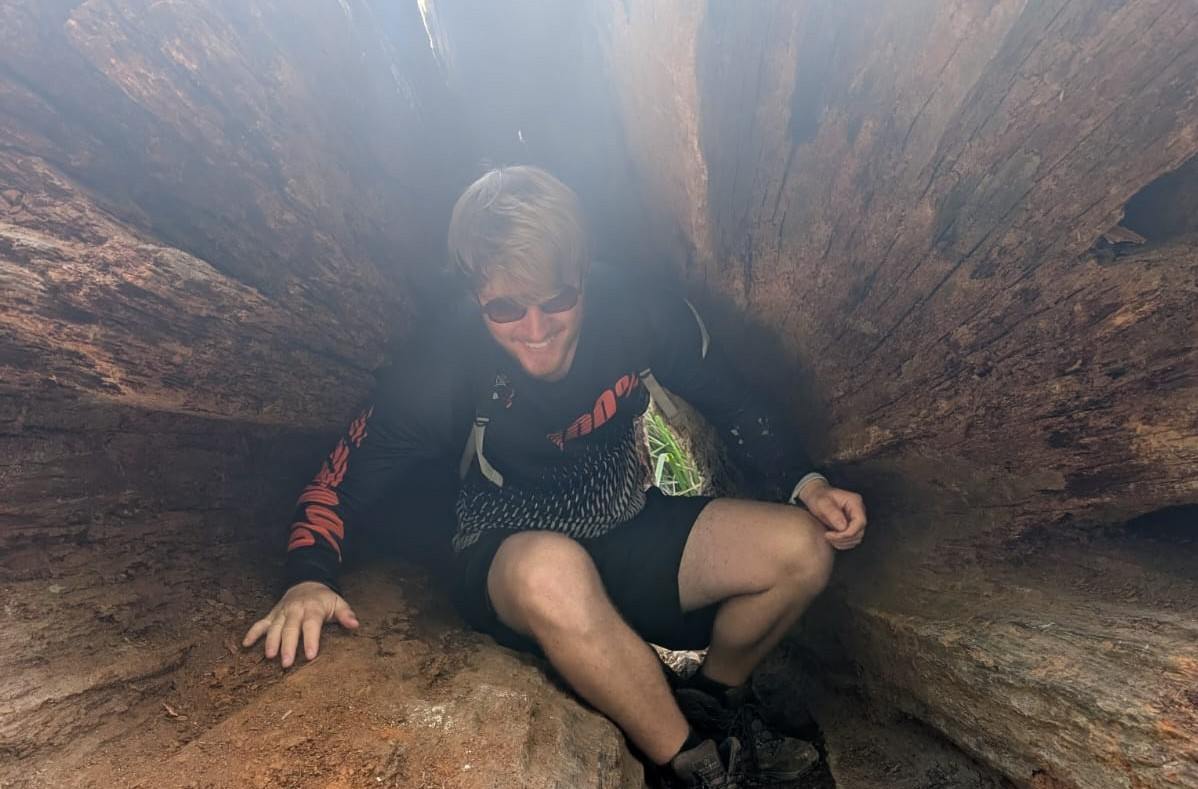
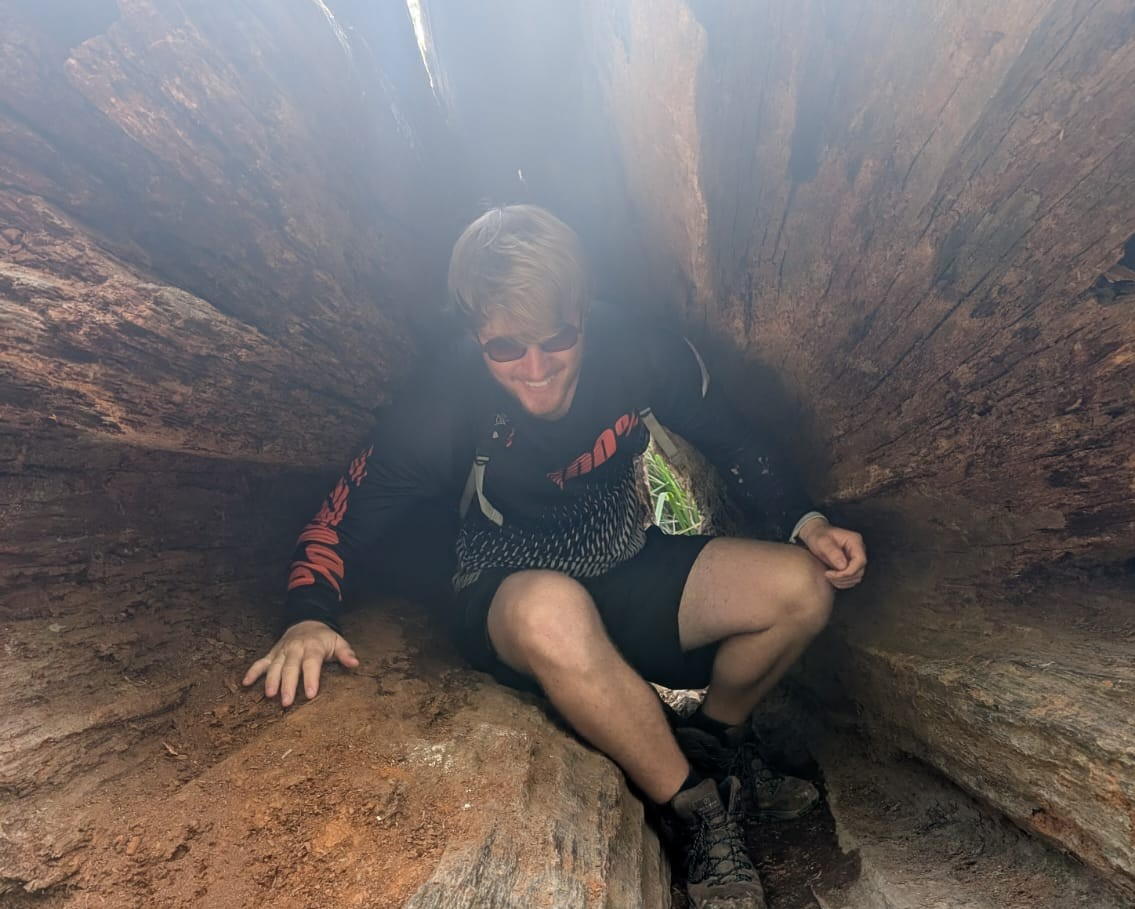
Updated animations

diff --git a/src/intro.jsx b/src/intro.jsx
@@ -18,72 +18,18 @@ function Intro(){
         gsap.fromTo(".intro-img", 
             {
                 scale: 1,
-                xPercent: -50,
-                yPercent: -50
             },
             {
                 scale: 0.85,
-                xPercent: -50,
-                yPercent: -50,
                 ease: "power1.inOut",
                 scrollTrigger: {
                     immediateRender: false,
                     trigger: locationsRef.current,
-                    start: "top-=150px bottom",
-                    end: "top-=150px 15%",
+                    start: "top bottom",
+                    end: "top 15%",
                     scrub: 0.5
                 }
         });
-
-        const tlNZ = gsap.timeline(
-        {
-            scrollTrigger: {
-                pinSpacing: false,
-                trigger: '.intro-img-wrapper',
-                start: "top top",
-                end: "bottom top",
-                scrub: 1.5,
-                ease: "power1.inOut",
-                pin: true,
-                onLeave: () => toggleTextVisible(tv => !tv),
-                onEnterBack: () => toggleTextVisible(tv => !tv)
-            }
-        }
-        )
-        
-        tlNZ.fromTo(".intro-img",
-            {
-                scale: 0.3,
-                rotateZ: -56,
-                rotateX: 100,
-                xPercent: -50,
-                yPercent: -50,
-                filter: 'grayscale(1) brightness(0.6)'
-            },
-            {
-                duration: 0.9,
-                rotateZ: 0,
-                rotateX: 0,
-                scale: 1,
-                xPercent: -50,
-                yPercent: -50,
-                filter: 'grayscale(0) brightness(1.05)'
-            }
-        )
-            .fromTo(".intro-img-text", 
-                {
-                    scale: 1,
-                    xPercent: -50,
-                    yPercent: -50
-                },
-                {
-                    duration: 1,
-                    scale: 30,
-                    xPercent: -50,
-                    yPercent: -50,
-                    ease: "power2.in"
-                }
-                ,"<");
 
         const elems = gsap.utils.toArray(".location-text");
         elems.forEach((e) => {
@@ -152,11 +98,9 @@ function Intro(){
     
     return(
         <>
-            <div className='gradient-bg'>
-                <div className="intro-img-wrapper">
-                    <img src={temple} alt="Angkor Wat" className="intro-img" />
-                    <div className="intro-img-text" style={{ display: !textVisible ? "none" : "block" }}>2025<br/>TRAVEL</div>
-                </div>
+            <div className="intro-img-wrapper">
+                <img src={temple} alt="Angkor Wat" className="intro-img" />
+                <div className="intro-img-text" style={{ display: !textVisible ? "none" : "block" }}>2025</div>
             </div>
             <div className="locations-wrapper" ref={locationsRef}>
                 {locationList.map((value,index) => 

diff --git a/src/index.css b/src/index.css
@@ -19,19 +19,9 @@ body{
     INTRO
 */
 
-.gradient-bg{
-  min-height: 200vh;
-  background: linear-gradient(200deg,
-  #191229 0% 25.5%,
-  #7e688b 45% 52%,
-  var(--black) 73% 
-  );
-}
-
 .intro-img-wrapper{
-  height: 100vh;
+  height: 94vh;
   width: 100%;
-  box-sizing: border-box;
   position: relative;
 }
 
@@ -41,15 +31,13 @@ body{
   width: 50vw;
   height: auto;
   left: 50%;
-  top: 50%;
+  top: 65%;
   text-align: center;
-  font-family: "Roboto";
+  font-family: var(--playfair);
   font-weight: 600;
-  paint-order:  stroke fill;
-  -webkit-text-stroke: 4px white;
-  
+  transform: translateX(-50%);
   font-size: 15rem;
-  color: rgba(255, 255, 255, 0.25);
+  color: hsl(38, 60%, 99%);
   z-index: 1000; 
 }
 
@@ -60,14 +48,13 @@ body{
 
 .intro-img{
   position: absolute;
-  width: 100vw;
-  height: 100vh;
+  transform-origin: center;
+  width: 100%;
+  height: 100%;
+  box-sizing: border-box;
   object-position: 55% 15%;
   object-fit: cover; 
-  left: 50%;
-  top: 50%;
-  transform-origin: center;
-  border-radius: 5%;
+  border-radius: 0 0 5% 5%;
 }
 
 .locations-wrapper{
